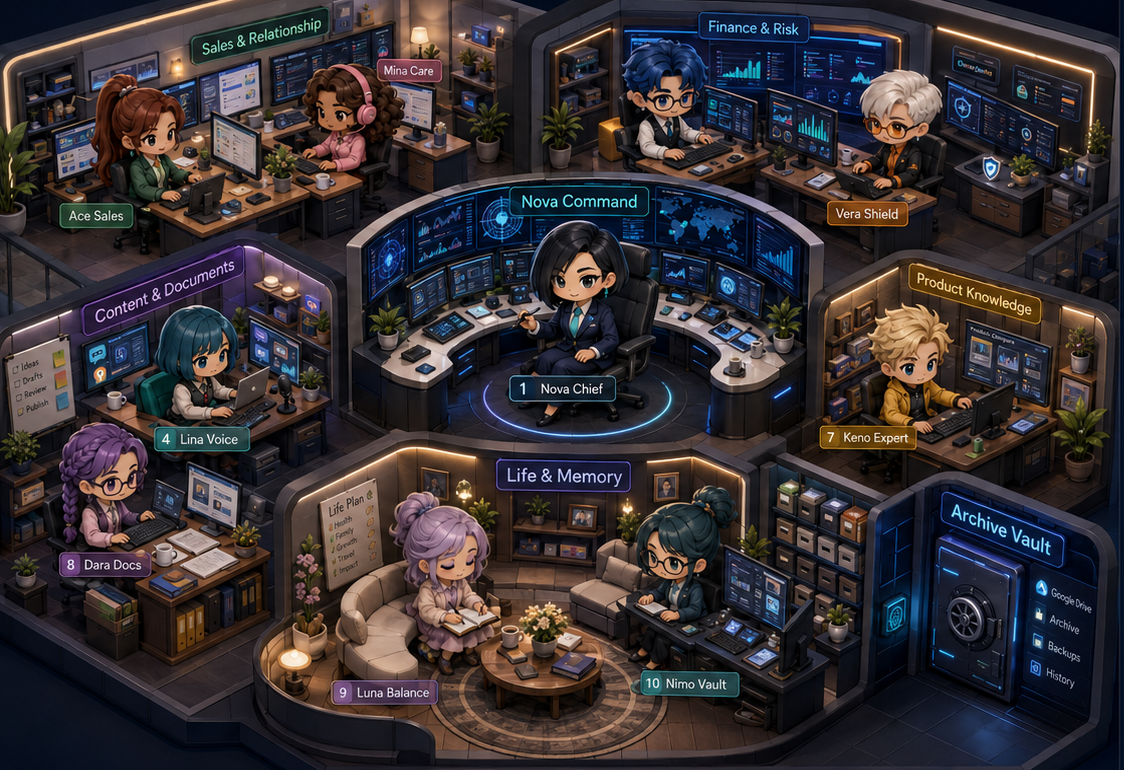
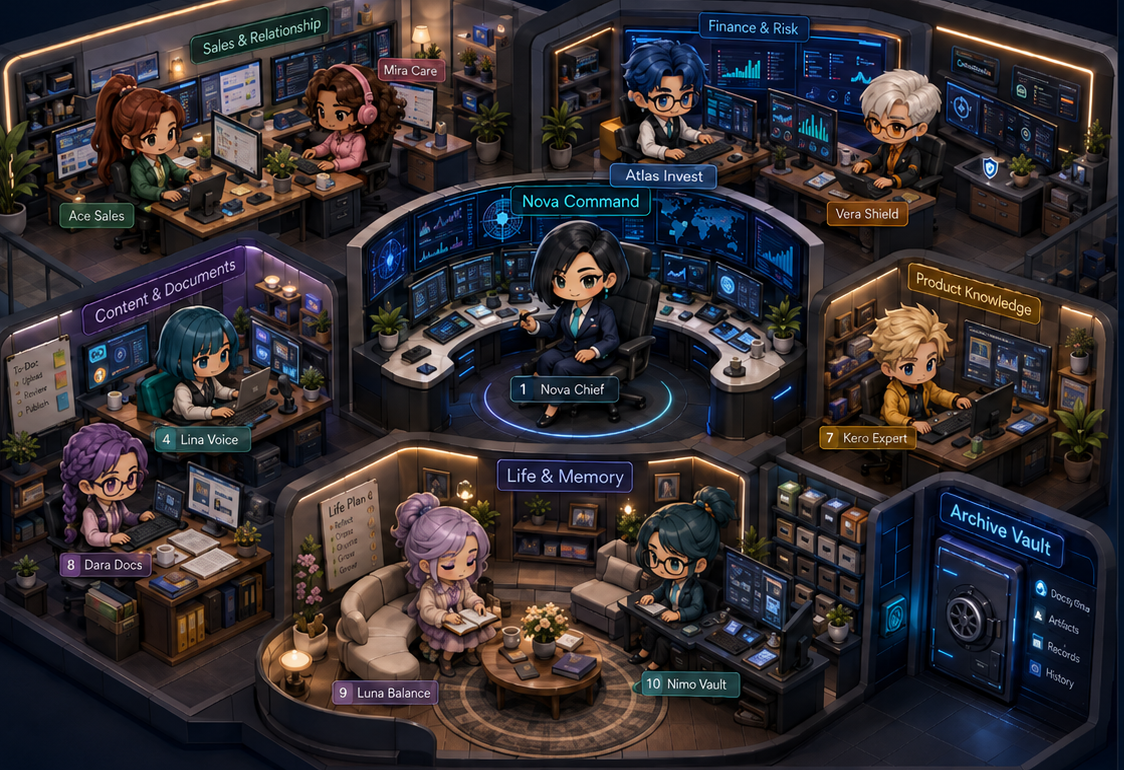
Refresh office dashboard with team agent map

diff --git a/index.html b/index.html
@@ -2101,6 +2101,26 @@
         .agent-hotspot.luna { left: 28%; top: 64%; width: 18%; height: 22%; }
         .agent-hotspot.nimo { left: 50%; top: 62%; width: 19%; height: 22%; }
 
+        .agent-label {
+          position: absolute;
+          z-index: 4;
+          display: inline-flex;
+          align-items: center;
+          gap: 6px;
+          padding: 5px 10px;
+          border: 1px solid rgba(255, 255, 255, 0.16);
+          border-radius: 7px;
+          color: #f2fbff;
+          background: rgba(6, 20, 35, 0.86);
+          box-shadow: 0 8px 18px rgba(0, 0, 0, 0.34);
+          font-size: 13px;
+          font-weight: 800;
+          pointer-events: none;
+        }
+
+        .agent-label.mina-label { left: 33.2%; top: 7.2%; background: rgba(141, 62, 105, 0.9); }
+        .agent-label.keno-label { left: 73.6%; top: 55.4%; background: rgba(142, 101, 18, 0.92); }
+
         .agent-detail {
           position: absolute;
           z-index: 6;
@@ -2389,6 +2409,8 @@
             <button class="agent-hotspot keno" type="button" data-agent-key="keno">Keno Expert</button>
             <button class="agent-hotspot luna" type="button" data-agent-key="luna">Luna Balance</button>
             <button class="agent-hotspot nimo" type="button" data-agent-key="nimo">Nimo Vault</button>
+            <span class="agent-label mina-label">Mina Care</span>
+            <span class="agent-label keno-label">Keno Expert</span>
             <section class="agent-detail" id="agentDetail"><strong>Nova Chief</strong><p>Click any agent to see current role, work status, and next action.</p><small>READY</small></section>
           </main>
 
@@ -2397,8 +2419,8 @@
             <div class="os-tabs"><button class="active">All Activity</button><button>Tasks</button><button>Alerts</button><button>Mentions</button></div>
             <div class="os-feed">
               <article><img src="assets/avatars-drive/nova-chief.png" alt="Nova Chief" /><div><strong>Nova Chief</strong><p>Ready to dispatch Telegram and dashboard commands.</p></div><small>Live</small></article>
-              <article><img src="assets/avatars-drive/ace-sales.png" alt="Ace Sales" /><div><strong>Ace Sales</strong><p>Visit plans, proposals, and weekly reports ready.</p></div><small>Ready</small></article>
-              <article><img src="assets/avatars-drive/mina-care.png" alt="Mina Care" /><div><strong>Mina Care</strong><p>Follow-up drafts and Salesforce notes queued.</p></div><small>Ready</small></article>
+              <article><img src="assets/avatars-drive/ace-sales.png" alt="Ace Sales" /><div><strong>Ace Sales</strong><p>Closed-loop sales routing is ready for visit briefs and proposals.</p></div><small>Update</small></article>
+              <article><img src="assets/avatars-drive/mina-care.png" alt="Mina Care" /><div><strong>Mina Care</strong><p>Follow-up drafts, retention notes, and reminders queued.</p></div><small>Follow-up</small></article>
               <article><img src="assets/avatars-drive/atlas-invest.png" alt="Atlas Invest" /><div><strong>Atlas Invest</strong><p>DCA waits for allocation truth before decision.</p></div><small>Ready</small></article>
               <article><img src="assets/avatars-drive/vera-shield.png" alt="Vera Shield" /><div><strong>Vera Shield</strong><p>Risk gate active for missing or private source data.</p></div><small>Guard</small></article>
               <article><img src="assets/avatars-drive/nimo-vault.png" alt="Nimo Vault" /><div><strong>Nimo Vault</strong><p>Drive vault paths mapped for approved outputs.</p></div><small>Vault</small></article>
@@ -2407,10 +2429,10 @@
 
           <footer class="os-bottom">
             <div class="os-metric"><span>Active Agents</span><b>10 / 10</b></div>
-            <div class="os-metric"><span>Tasks in Progress</span><b>24</b></div>
-            <div class="os-metric"><span>Completed Today</span><b>128</b></div>
+            <div class="os-metric"><span>Tasks in Progress</span><b>23</b></div>
+            <div class="os-metric"><span>Completed Today</span><b>427</b></div>
             <div class="os-metric"><span>System Health</span><b>100%</b></div>
-            <div class="os-metric"><span>Intelligence. Coordination. Impact.</span><b>Together, we get it done.</b></div>
+            <div class="os-metric"><span>Intelligence. Coordination. Impact.</span><b>Built for the future, today.</b></div>
           </footer>
 
           <div class="action-toast" id="dashboardToast" aria-live="polite"><strong>Ready</strong><span>Select a menu item.</span></div>
